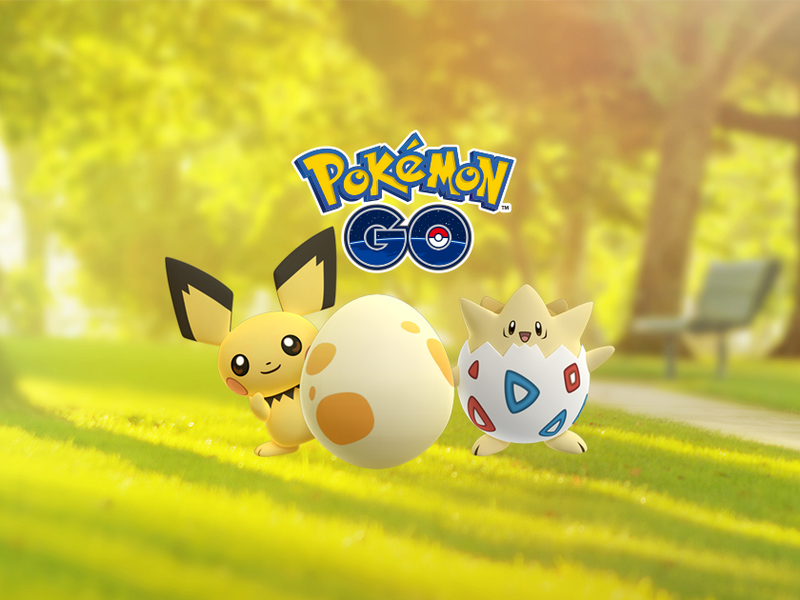
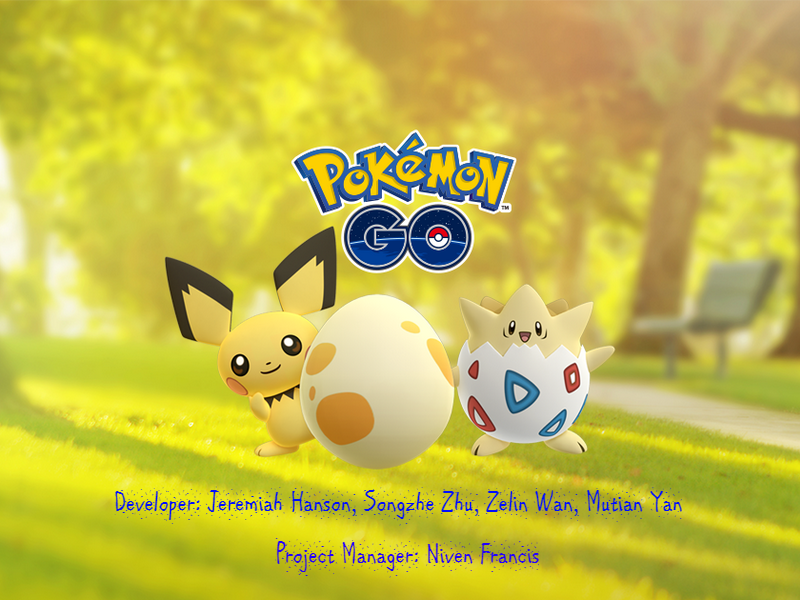
added author names

Changed region(s): [[0.125, 0.81, 0.8438, 0.87], [0.3438, 0.9, 0.6875, 0.96]]

diff --git a/src/controller/beginWindow.java b/src/controller/beginWindow.java
@@ -22,7 +22,7 @@ public class beginWindow extends JFrame{
 		this.setDefaultCloseOperation(JFrame.EXIT_ON_CLOSE);
 		this.setTitle("Pokemon Safari Login");
 		JFXPanel fxPanel = new JFXPanel();
-		this.setSize((20 * 11) + 230, (20 * 11) + 70);
+		this.setSize((20 * 11) + 230, (20 * 11) + 100);
 		this.setLocation(100, 100);
 		panel = new LoadingView(this);
 		panel.setSize((20 * 11) + 230, (20 * 11) + 70);
